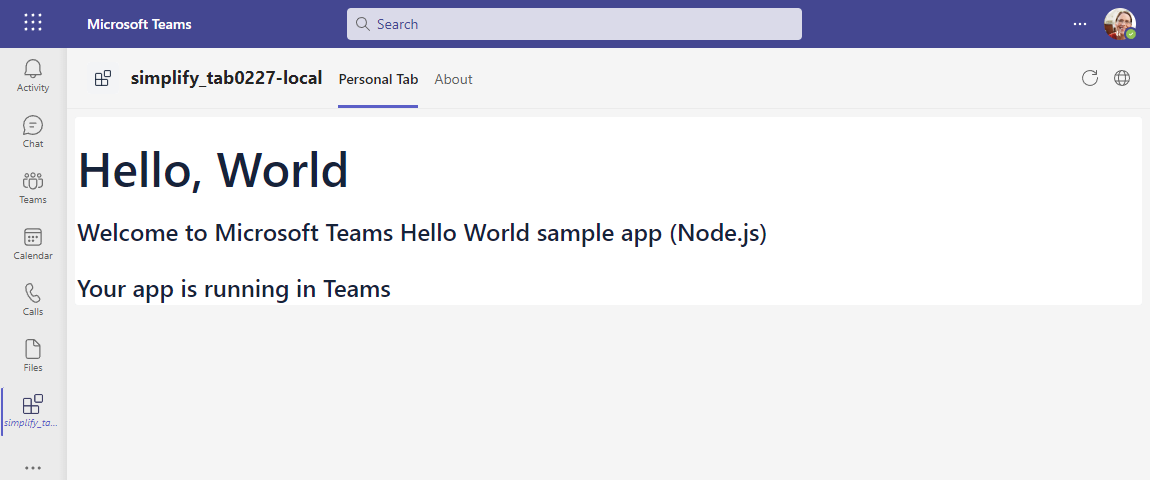
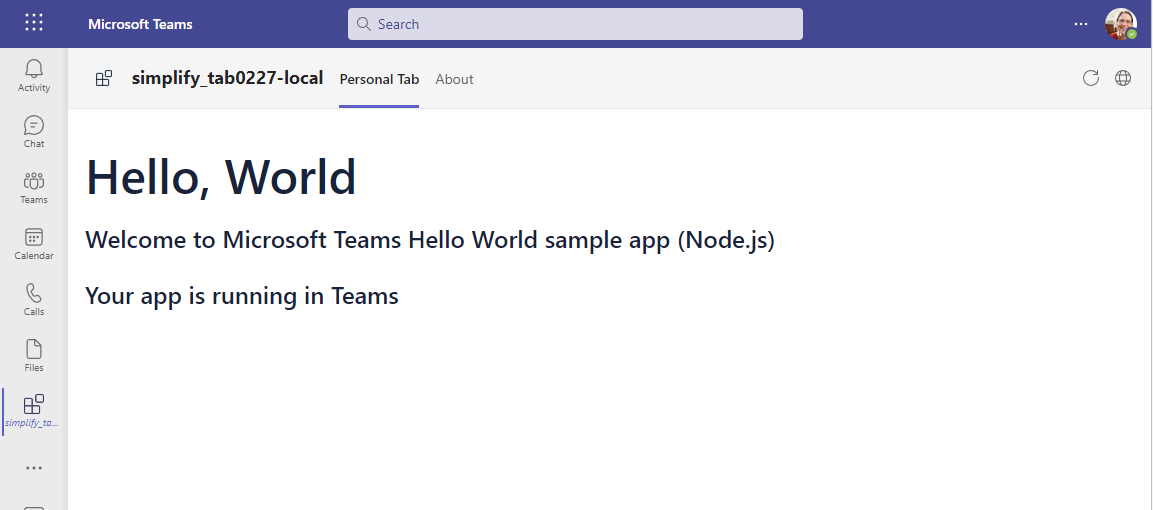
chore: update css

diff --git a/src/views/hello.html b/src/views/hello.html
@@ -4,7 +4,7 @@
     <meta name="viewport" content="width=device-width, initial-scale=1.0" />
     <link rel="icon" href="/favicon.ico" />
     <link rel="stylesheet" type="text/css" href="/styles/msteams-16.css" />
-    <link rel="stylesheet" type="text/css" href="/styles/hello.css" />
+    <link rel="stylesheet" type="text/css" href="/styles/custom.css" />
     <script
       src="https://res.cdn.office.net/teams-js/2.9.1/js/MicrosoftTeams.min.js"
       integrity="sha384-xnsUQ1tUqsrutBJl0vuf4/hufzLFWW8ZhGnhItfpQ0/BtWgM2uw6YT6BQ5YaKBSM"

diff --git a/src/static/styles/custom.css b/src/static/styles/custom.css
@@ -1,0 +1,12 @@
+html, body, div.surface, div.panel {
+    height: 100%;
+    margin: 0;
+}
+
+div.panel {
+    padding: 15px;
+}
+
+span p {
+  display: inline;
+}
